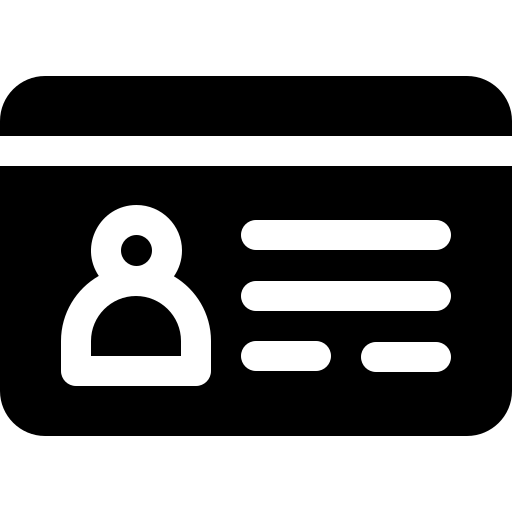
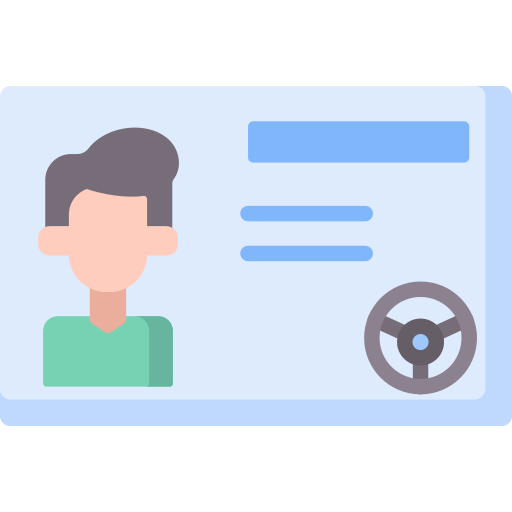
att

diff --git a/index.html b/index.html
@@ -15,7 +15,7 @@
         <h1>Gerenciador de Metas</h1>
         <div id="container">
             <div class="meta" id="car">
-                <img src="assets/driving-license(1).png" alt="Carteira de Motorista">
+                <img src="assets/driving-license.png" alt="Carteira de Motorista">
                 
                 <span id="metaCardcar" class="metaText"></span>
 
@@ -25,7 +25,7 @@
             </div>
 
             <div class="meta" id="cardCar">
-                <img src="assets/car(1).png" alt="Carro">
+                <img src="assets/hatchback.png" alt="Carro">
 
                 
                 <span id="metaCar" class="metaText"></span>
@@ -36,7 +36,7 @@
             </div>
 
             <div class="meta" id="house">
-                <img src="assets/home.png" alt="Casa">
+                <img src="assets/house.png" alt="Casa">
 
                 
                 <span id="metaHouse" class="metaText"></span>

diff --git a/style.css b/style.css
@@ -51,10 +51,11 @@ h1 {
     width: 100%;
     justify-content: space-around;
     gap: 20px;
+    flex-wrap: wrap;
 }
 
 .meta {
-    border-radius: 100%;
+    border-radius: 20px;
     box-shadow: 1px 2px 10px rgba(0,0,0,0.2);
     width: 300px;
     height: 300px;
